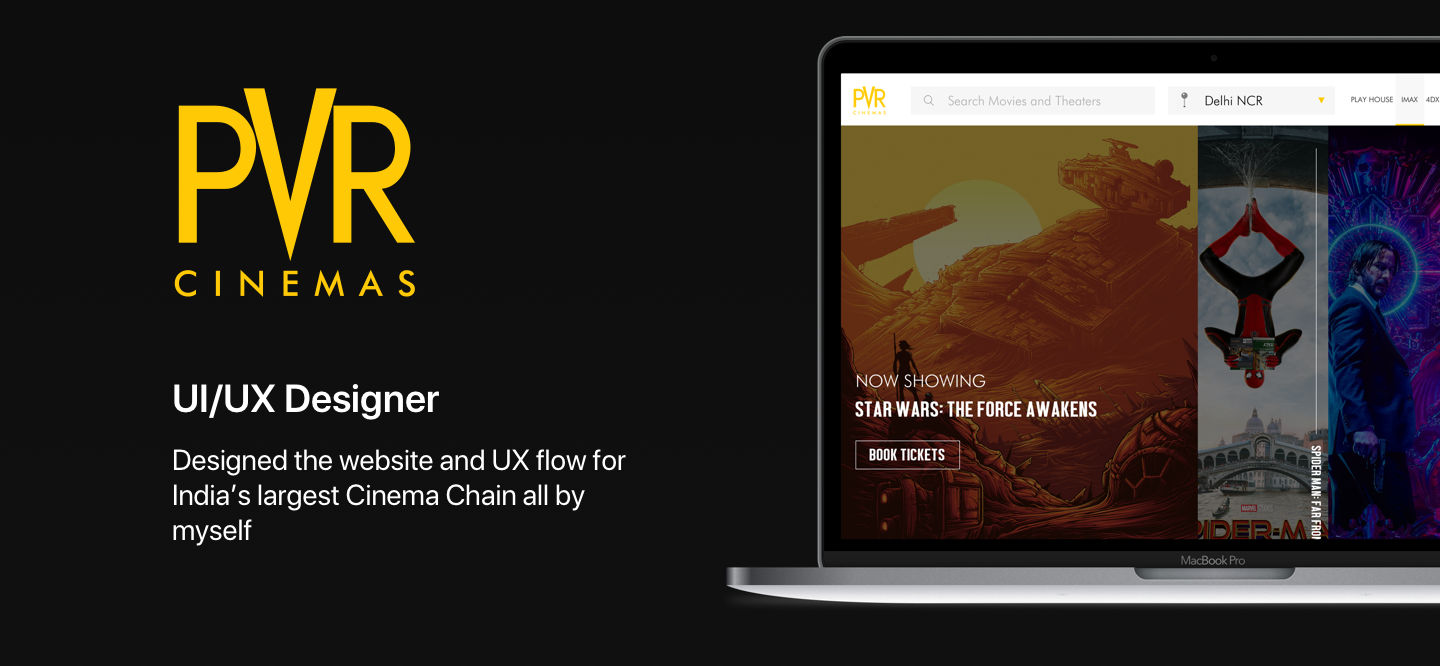
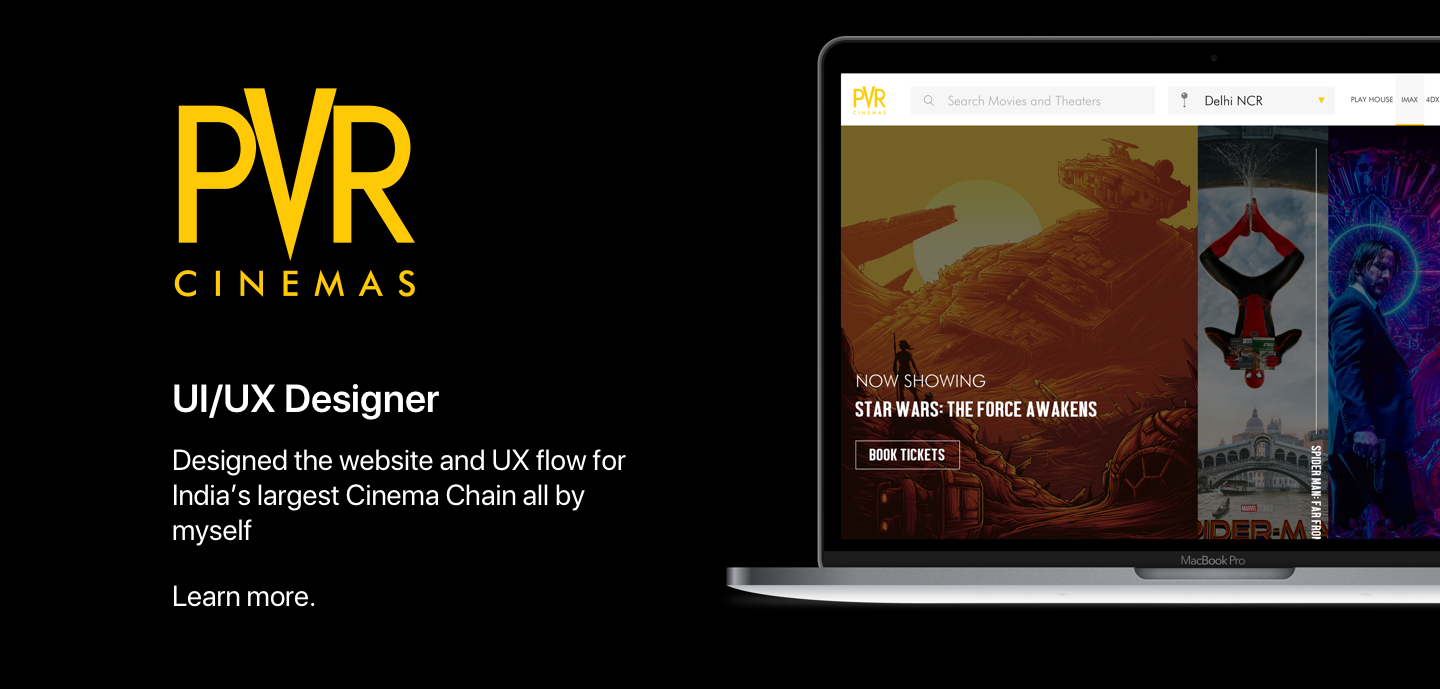
New update
Removed logo, changed the navbar, changed the background, added experience info

diff --git a/vkaao.html b/vkaao.html
@@ -1,0 +1,76 @@
+<!DOCTYPE html>
+<html>
+  <head>
+    <title>Kaartik's Experience</title>
+      <meta charset="utf-8">
+      <meta name="viewport" content="width=device-width, initial-scale=1, shrink-to-fit=no">
+      <meta name="application-name" content=" Web Portfolio for Kaartik Malhotra">
+      <meta name="author" content="Kaartik Malhotra">
+      <meta name="description" content="This Website is designed for Kaartik Malhotra as his web Portfolio">
+      <meta name="keywords" content="Designer, Developer, Engineer, Computer Science">
+
+      <!--Bootstrap CSS-->
+      <link rel="stylesheet" href="https://stackpath.bootstrapcdn.com/bootstrap/4.3.1/css/bootstrap.min.css" integrity="sha384-ggOyR0iXCbMQv3Xipma34MD+dH/1fQ784/j6cY/iJTQUOhcWr7x9JvoRxT2MZw1T" crossorigin="anonymous">
+      <link rel="stylesheet" href="https://cdnjs.cloudflare.com/ajax/libs/normalize/5.0.0/normalize.min.css">
+      <link rel='stylesheet' href='https://minimamente.com/example/magic_animations/animate.min.css'>
+      <link rel="stylesheet" href="https://netdna.bootstrapcdn.com/bootstrap/3.0.3/css/bootstrap.min.css">
+      <link rel="stylesheet" href="https://netdna.bootstrapcdn.com/bootstrap/3.0.3/css/bootstrap-theme.min.css">
+      <link rel='stylesheet' href='https://cdnjs.cloudflare.com/ajax/libs/hamburgers/1.1.3/hamburgers.min.css'>
+      <link href="https://fonts.googleapis.com/css?family=Noto+Sans+HK:400,700,900&display=swap" rel="stylesheet">
+
+      <!--Bootstrap JS-->
+      <script src="https://code.jquery.com/jquery-3.3.1.slim.min.js" integrity="sha384-q8i/X+965DzO0rT7abK41JStQIAqVgRVzpbzo5smXKp4YfRvH+8abtTE1Pi6jizo" crossorigin="anonymous"></script>
+      <script src="https://cdnjs.cloudflare.com/ajax/libs/popper.js/1.14.7/umd/popper.min.js" integrity="sha384-UO2eT0CpHqdSJQ6hJty5KVphtPhzWj9WO1clHTMGa3JDZwrnQq4sF86dIHNDz0W1" crossorigin="anonymous"></script>
+      <script src="https://stackpath.bootstrapcdn.com/bootstrap/4.3.1/js/bootstrap.min.js" integrity="sha384-JjSmVgyd0p3pXB1rRibZUAYoIIy6OrQ6VrjIEaFf/nJGzIxFDsf4x0xIM+B07jRM" crossorigin="anonymous"></script>
+      <script src="https://cdnjs.cloudflare.com/ajax/libs/modernizr/2.8.3/modernizr.min.js" type="text/javascript"></script>
+
+      <!--External stylesheet-->
+      <link rel="stylesheet" type="text/css" href="css/menu.css">
+      <link rel="stylesheet" type="text/css" href="css/style.css">
+      <link rel="stylesheet" href="css/animate.css">
+      <link rel="stylesheet" href="css/navstyle.css">
+
+
+      <!--Favicon-->
+      <link rel="shortcut icon" type="image/png" href="favicon.png">
+
+      <!--Script-->
+      <script src="js/wow.min.js"></script>
+              <script>
+              new WOW().init();
+              </script>
+    </head>
+    <body>
+      <div class="nav">
+        <input type="checkbox" id="nav-check">
+        <div class="nav-header">
+          <div class="nav-title">
+          </div>
+        </div>
+        <div class="nav-btn">
+          <label for="nav-check">
+            <span></span>
+            <span></span>
+            <span></span>
+          </label>
+        </div>
+
+        <div class="nav-links" style="font-family: -apple-system, BlinkMacSystemFont, sans-serif;; font-weight: 5px; opacity: 1; color: white;">
+          <a href="index.html">Home</a>
+          <a href="projects.html">Projects</a>
+          <a href="experience.html"><font color = "grey">Experience</font></a>
+          <a href="hobbies.html">Hobbies</a>
+          <a href="about.html">About</a>
+          <a href="https://drive.google.com/file/d/1_UPXMY0wjBWakBvZyuXNpWWIIUXNdicl/view?usp=sharing">Download full CV</a>
+        </div>
+      </div>
+      <section id="two">
+        <div class="wow fadeInUp" data-wow-duration="1s">
+        <div class="col" style="margin-top:-3%;">
+          <div class="row"><img src="img/ip/vkaao.png" style="height: 100%; width: 100%; display: block;"></div>
+        </div>
+        <div class="col">
+        </div>
+      </section>
+    </body>
+</html>

diff --git a/pvr.html b/pvr.html
@@ -1,0 +1,76 @@
+<!DOCTYPE html>
+<html>
+  <head>
+    <title>Kaartik's Experience</title>
+      <meta charset="utf-8">
+      <meta name="viewport" content="width=device-width, initial-scale=1, shrink-to-fit=no">
+      <meta name="application-name" content=" Web Portfolio for Kaartik Malhotra">
+      <meta name="author" content="Kaartik Malhotra">
+      <meta name="description" content="This Website is designed for Kaartik Malhotra as his web Portfolio">
+      <meta name="keywords" content="Designer, Developer, Engineer, Computer Science">
+
+      <!--Bootstrap CSS-->
+      <link rel="stylesheet" href="https://stackpath.bootstrapcdn.com/bootstrap/4.3.1/css/bootstrap.min.css" integrity="sha384-ggOyR0iXCbMQv3Xipma34MD+dH/1fQ784/j6cY/iJTQUOhcWr7x9JvoRxT2MZw1T" crossorigin="anonymous">
+      <link rel="stylesheet" href="https://cdnjs.cloudflare.com/ajax/libs/normalize/5.0.0/normalize.min.css">
+      <link rel='stylesheet' href='https://minimamente.com/example/magic_animations/animate.min.css'>
+      <link rel="stylesheet" href="https://netdna.bootstrapcdn.com/bootstrap/3.0.3/css/bootstrap.min.css">
+      <link rel="stylesheet" href="https://netdna.bootstrapcdn.com/bootstrap/3.0.3/css/bootstrap-theme.min.css">
+      <link rel='stylesheet' href='https://cdnjs.cloudflare.com/ajax/libs/hamburgers/1.1.3/hamburgers.min.css'>
+      <link href="https://fonts.googleapis.com/css?family=Noto+Sans+HK:400,700,900&display=swap" rel="stylesheet">
+
+      <!--Bootstrap JS-->
+      <script src="https://code.jquery.com/jquery-3.3.1.slim.min.js" integrity="sha384-q8i/X+965DzO0rT7abK41JStQIAqVgRVzpbzo5smXKp4YfRvH+8abtTE1Pi6jizo" crossorigin="anonymous"></script>
+      <script src="https://cdnjs.cloudflare.com/ajax/libs/popper.js/1.14.7/umd/popper.min.js" integrity="sha384-UO2eT0CpHqdSJQ6hJty5KVphtPhzWj9WO1clHTMGa3JDZwrnQq4sF86dIHNDz0W1" crossorigin="anonymous"></script>
+      <script src="https://stackpath.bootstrapcdn.com/bootstrap/4.3.1/js/bootstrap.min.js" integrity="sha384-JjSmVgyd0p3pXB1rRibZUAYoIIy6OrQ6VrjIEaFf/nJGzIxFDsf4x0xIM+B07jRM" crossorigin="anonymous"></script>
+      <script src="https://cdnjs.cloudflare.com/ajax/libs/modernizr/2.8.3/modernizr.min.js" type="text/javascript"></script>
+
+      <!--External stylesheet-->
+      <link rel="stylesheet" type="text/css" href="css/menu.css">
+      <link rel="stylesheet" type="text/css" href="css/style.css">
+      <link rel="stylesheet" href="css/animate.css">
+      <link rel="stylesheet" href="css/navstyle.css">
+
+
+      <!--Favicon-->
+      <link rel="shortcut icon" type="image/png" href="favicon.png">
+
+      <!--Script-->
+      <script src="js/wow.min.js"></script>
+              <script>
+              new WOW().init();
+              </script>
+    </head>
+    <body>
+      <div class="nav">
+        <input type="checkbox" id="nav-check">
+        <div class="nav-header">
+          <div class="nav-title">
+          </div>
+        </div>
+        <div class="nav-btn">
+          <label for="nav-check">
+            <span></span>
+            <span></span>
+            <span></span>
+          </label>
+        </div>
+
+        <div class="nav-links" style="font-family: -apple-system, BlinkMacSystemFont, sans-serif;; font-weight: 5px; opacity: 1; color: white;">
+          <a href="index.html">Home</a>
+          <a href="projects.html">Projects</a>
+          <a href="experience.html"><font color = "grey">Experience</font></a>
+          <a href="hobbies.html">Hobbies</a>
+          <a href="about.html">About</a>
+          <a href="https://drive.google.com/file/d/1_UPXMY0wjBWakBvZyuXNpWWIIUXNdicl/view?usp=sharing">Download full CV</a>
+        </div>
+      </div>
+      <section id="two">
+        <div class="wow fadeInUp" data-wow-duration="1s">
+        <div class="col" style="margin-top:-3%;">
+          <div class="row"><img src="img/ip/pvr.png" style="height: 100%; width: 100%; display: block;"></div>
+        </div>
+        <div class="col">
+        </div>
+      </section>
+    </body>
+</html>

diff --git a/projects.html b/projects.html
@@ -45,7 +45,6 @@
         <input type="checkbox" id="nav-check">
         <div class="nav-header">
           <div class="nav-title">
-            <img src="logo.png">
           </div>
         </div>
         <div class="nav-btn">
@@ -67,7 +66,7 @@
       </div>
           <section id="two">
             <div class="wow fadeInUp" data-wow-duration="1s">
-            <div class="col" style="margin-top:-10%;">
+            <div class="col" style="margin-top: -5%;">
               <div class="row"><img src="img/exp/12.png" style="height: 100%; width: 100%; display: block;"></div>
             </div>
             <br>
@@ -76,7 +75,7 @@
             </div>
             <br>
             <div class="col">
-              <div class="row"><img src="img/exp/13.png" style="height: 100%; width: 100%; display: block;"></div>
+              <div class="row"><img src="img/exp/16.png" style="height: 100%; width: 100%; display: block;"></div>
             </div>
             <br>
             <div class="col">
@@ -88,7 +87,11 @@
             </div>
             <br>
             <div class="col">
-              <div class="row"><img src="img/exp/15.png" style="height: 100%; width:100%; display: block;"></div>
+              <div class="row"><img src="img/exp/13.png" style="height: 100%; width:100%; display: block;"></div>
+            </div>
+            <br>
+            <div class="col">
+              <div class="row"><img src="img/exp/15.png" style="height: 100%; width: 100%; display: block;"></div>
             </div>
 
       <!--NavBar Script-->

diff --git a/experience.html b/experience.html
@@ -45,7 +45,6 @@
         <input type="checkbox" id="nav-check">
         <div class="nav-header">
           <div class="nav-title">
-            <img src="logo.png">
           </div>
         </div>
         <div class="nav-btn">
@@ -67,11 +66,11 @@
       </div>
       <section id="two">
         <div class="wow fadeInUp" data-wow-duration="1s">
-        <div class="col">
-          <div class="row"><img src="img/exp/7.png" style="height: 100%; width: 100%; display: block;"></div>
+        <div class="col" style="margin-top:-5%;">
+          <div class="row"><a href="pvr.html"><img src="img/exp/7.png" style="height: 100%; width: 100%; display: block;"></a></div>
         </div>
         <div class="col">
-          <div class="row"><img src="img/exp/8.png" style="height: 100%; width: 100%; display: block;"></div>
+          <div class="row"><a href="vkaao.html"><img src="img/exp/8.png" style="height: 100%; width: 100%; display: block;"></a></div>
         </div>
         </div>
         <div class="fadeInUp" data-wow-duration="3s">

diff --git a/css/style.css b/css/style.css
@@ -7,7 +7,7 @@ body{
   margin: 0;
   padding: 0;
   z-index: 0;
-  background-color: #0D0D0D;
+  background-color: black;
   overflow-x: hidden;
   background-attachment: fixed;
   -webkit-font-smoothing: antialiased;
@@ -16,7 +16,7 @@ body{
 #one{
   height: 100%;
   width: 100%;
-  background-color: #0D0D0D;
+  background-color: black;
   margin: 0;
   padding: 0;
 }

diff --git a/css/navstyle.css b/css/navstyle.css
@@ -3,7 +3,7 @@
 }
 
 .nav {
-  height: 95px;
+  height: 55px;
   width: 100%;
   background-color: #000;
   position: fixed;
@@ -38,7 +38,7 @@
   padding: 13px 10px 13px 13px;
   text-decoration: none;
   color: #efefef;
-  margin-top: 5%;
+  margin-top: 1%;
 }
 
 .nav > .nav-links > a:hover {

diff --git a/index.html b/index.html
@@ -45,7 +45,6 @@
         <input type="checkbox" id="nav-check">
         <div class="nav-header">
           <div class="nav-title">
-            <img src="logo.png">
           </div>
         </div>
         <div class="nav-btn">
